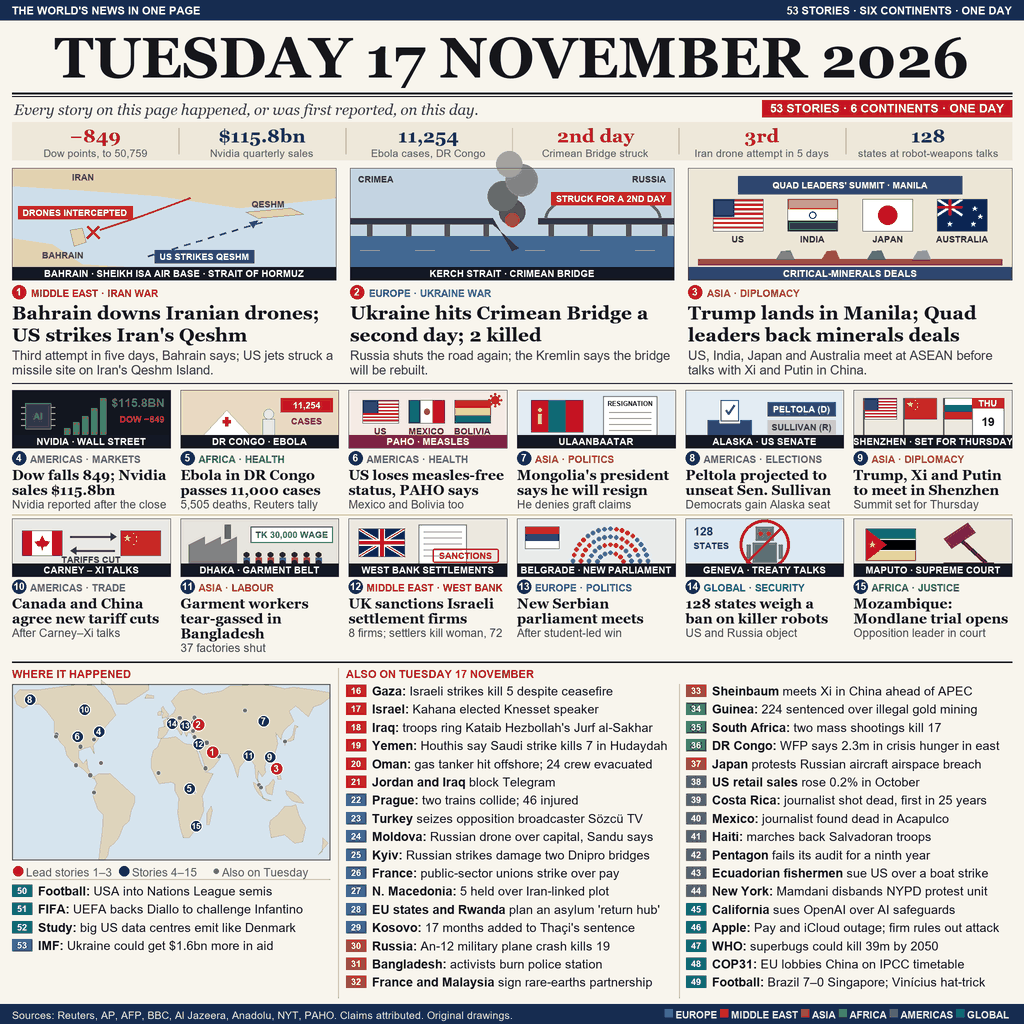
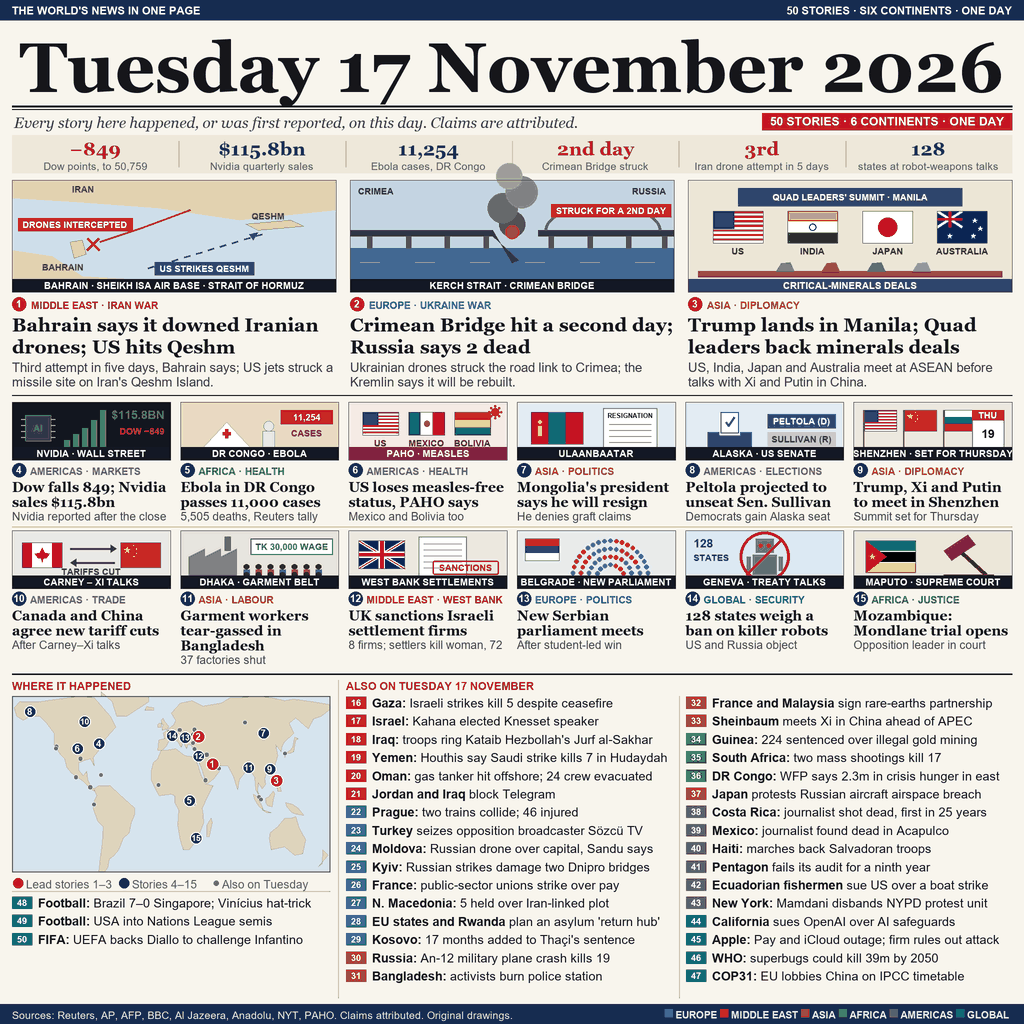
v5: full-width masthead, attributed lead headlines, tighter list

diff --git a/art/draw.py b/art/draw.py
@@ -123,7 +123,7 @@ def para(x, y, segments, max_w, lh, max_lines=None):
 
 # ------------------------------------------------------------------ fonts
 F_KICK = font("arialbd.ttf", 11)
-F_DATE = font("georgiab.ttf", 57)
+F_DATE = font("georgiab.ttf", 80)
 F_STRAP = font("georgiai.ttf", 15)
 F_BADGE = font("arialbd.ttf", 12)
 F_FIG = font("georgiab.ttf", 19)
@@ -468,10 +468,10 @@ def t_mozambique(x, y, w, h):
 
 # ------------------------------------------------------------------ content
 LEADS = [
-    (ill_iran, "MIDDLE EAST", "IRAN WAR", "Bahrain downs Iranian drones; US strikes Iran's Qeshm",
+    (ill_iran, "MIDDLE EAST", "IRAN WAR", "Bahrain says it downed Iranian drones; US hits Qeshm",
      "Third attempt in five days, Bahrain says; US jets struck a missile site on Iran's Qeshm Island."),
-    (ill_bridge, "EUROPE", "UKRAINE WAR", "Ukraine hits Crimean Bridge a second day; 2 killed",
-     "Russia shuts the road again; the Kremlin says the bridge will be rebuilt."),
+    (ill_bridge, "EUROPE", "UKRAINE WAR", "Crimean Bridge hit a second day; Russia says 2 dead",
+     "Ukrainian drones struck the road link to Crimea; the Kremlin says it will be rebuilt."),
     (ill_quad, "ASIA", "DIPLOMACY", "Trump lands in Manila; Quad leaders back minerals deals",
      "US, India, Japan and Australia meet at ASEAN before talks with Xi and Putin in China."),
 ]
@@ -534,7 +534,6 @@ ALSO = [
     ("AFRICA", "South Africa:", "two mass shootings kill 17", (28.2, -25.7)),
     ("AFRICA", "DR Congo:", "WFP says 2.3m in crisis hunger in east", (29.2, -1.7)),
     ("ASIA", "Japan", "protests Russian aircraft airspace breach", (130.4, 33.6)),
-    ("AMERICAS", "US retail sales", "rose 0.2% in October", (-80.0, 35.0)),
     ("AMERICAS", "Costa Rica:", "journalist shot dead, first in 25 years", (-84.1, 9.9)),
     ("AMERICAS", "Mexico:", "journalist found dead in Acapulco", (-99.9, 16.9)),
     ("AMERICAS", "Haiti:", "marches back Salvadoran troops", (-72.3, 18.5)),
@@ -548,8 +547,6 @@ ALSO = [
     ("GLOBAL", "Football:", "Brazil 7\u20130 Singapore; Vin\u00edcius hat-trick", (103.8, 1.3)),
     ("GLOBAL", "Football:", "USA into Nations League semis", (-95.0, 30.0)),
     ("GLOBAL", "FIFA:", "UEFA backs Diallo to challenge Infantino", (8.5, 47.4)),
-    ("GLOBAL", "Study:", "big US data centres emit like Denmark", (-71.1, 42.4)),
-    ("EUROPE", "IMF:", "Ukraine could get $1.6bn more in aid", (30.5, 50.4)),
 ]
 
 N_TOTAL = len(LEADS) + len(TILES) + len(ALSO)
@@ -558,13 +555,17 @@ N_TOTAL = len(LEADS) + len(TILES) + len(ALSO)
 rect(0, 0, W, 20, fill=NAVY)
 text(12, 4.5, "THE WORLD'S NEWS IN ONE PAGE", F_KICK, WHITE)
 text(W - 12, 4.5, f"{N_TOTAL} STORIES \u00b7 SIX CONTINENTS \u00b7 ONE DAY", F_KICK, WHITE, anchor="ra")
-text(W / 2, 25, "TUESDAY 17 NOVEMBER 2026", F_DATE, INK, anchor="ma")
-line([(12, 93), (W - 12, 93)], INK, 2.2)
-line([(12, 96), (W - 12, 96)], INK, 0.8)
-text(14, 101, "Every story on this page happened, or was first reported, on this day.", F_STRAP, (60, 60, 64))
+_size = 80
+while width("Tuesday 17 November 2026", font("georgiab.ttf", _size)) > W - 36:
+    _size -= 1
+F_DATE = font("georgiab.ttf", _size)
+text(W / 2, 92, "Tuesday 17 November 2026", F_DATE, INK, anchor="ms")
+line([(12, 106), (W - 12, 106)], INK, 2.2)
+line([(12, 109), (W - 12, 109)], INK, 0.8)
+text(14, 114, "Every story here happened, or was first reported, on this day. Claims are attributed.", F_STRAP, (60, 60, 64))
 bw = width(f"{N_TOTAL} STORIES \u00b7 6 CONTINENTS \u00b7 ONE DAY", F_BADGE) + 16
-rect(W - 12 - bw, 100, W - 12, 117, fill=RED)
-text(W - 12 - bw / 2, 108.5, f"{N_TOTAL} STORIES \u00b7 6 CONTINENTS \u00b7 ONE DAY", F_BADGE, WHITE, anchor="mm")
+rect(W - 12 - bw, 113, W - 12, 130, fill=RED)
+text(W - 12 - bw / 2, 121.5, f"{N_TOTAL} STORIES \u00b7 6 CONTINENTS \u00b7 ONE DAY", F_BADGE, WHITE, anchor="mm")
 
 # ------------------------------------------------------------------ figures strip
 FIGS = [
@@ -575,7 +576,7 @@ FIGS = [
     ("3rd", "Iran drone attempt in 5 days"),
     ("128", "states at robot-weapons talks"),
 ]
-FY0, FY1 = 122, 160
+FY0, FY1 = 135, 173
 rect(12, FY0, W - 12, FY1, fill=(238, 232, 218))
 fw = (W - 24) / len(FIGS)
 for i, (big, small) in enumerate(FIGS):
@@ -586,7 +587,7 @@ for i, (big, small) in enumerate(FIGS):
         line([(12 + fw * i, FY0 + 6), (12 + fw * i, FY1 - 6)], RULE, 1)
 
 # ------------------------------------------------------------------ leads
-LY = 168
+LY = 180
 LW = (W - 24 - 2 * 14) / 3
 LIH = 112
 lead_bottom = 0

diff --git a/README.md b/README.md
@@ -12,7 +12,7 @@ An entry for make.fun's bounty [Sum up 17 November's world news in one image](ht
 `main.py` (Python 3.13, standard library only) copies `entry.png` to `/output/entry.png`
 (or to `$MAKEFUN_OUTPUT_DIR`). The image is a 1024x1024 palette PNG: a dated front page with a
 figures strip, three illustrated lead stories, twelve illustrated tiles, a world map placing every
-story, and a region-coded list: 53 stories in all from 17 November 2026.
+story, and a region-coded list: 50 stories in all from 17 November 2026.
 
 The image is drawn by `art/draw.py` (Pillow, run once on the author's machine); the stories and
 the outlets that reported each one are in `research/sources-2026-11-17.md`.
